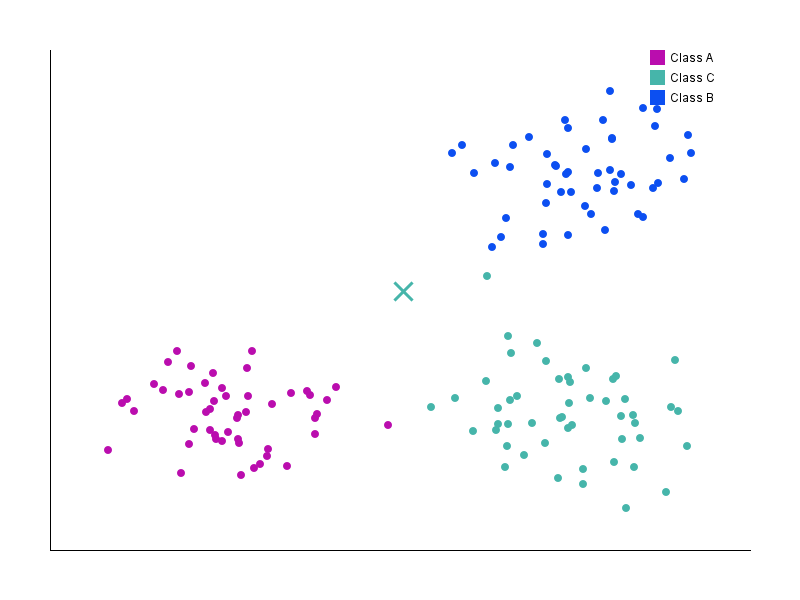
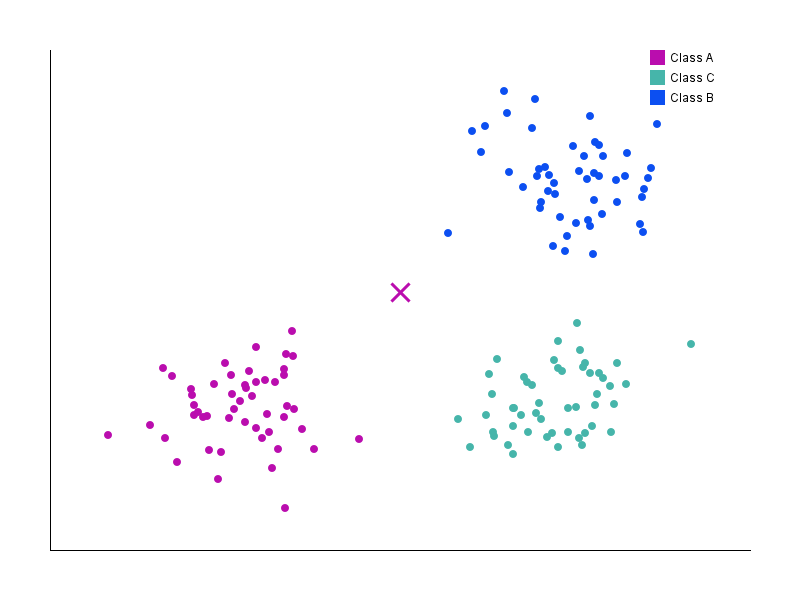
lab6

diff --git a/tasks/term-1/6/app/src/main/java/lab6/knn/Plotter.java b/tasks/term-1/6/app/src/main/java/lab6/knn/Plotter.java
@@ -1,0 +1,123 @@
+package lab6.knn;
+
+import javax.imageio.ImageIO;
+import java.awt.*;
+import java.awt.geom.Ellipse2D;
+import java.awt.image.BufferedImage;
+import java.io.File;
+import java.io.IOException;
+import java.util.HashMap;
+import java.util.List;
+import java.util.Map;
+import java.util.Random;
+
+public class Plotter {
+
+    private static final int WIDTH = 800;
+    private static final int HEIGHT = 600;
+    private static final int PADDING = 50;
+
+    public void plot(List<Point> trainingData, Point classifiedPoint, String filename) {
+        BufferedImage image = new BufferedImage(WIDTH, HEIGHT, BufferedImage.TYPE_INT_RGB);
+        Graphics2D g2d = image.createGraphics();
+
+        g2d.setColor(Color.WHITE);
+        g2d.fillRect(0, 0, WIDTH, HEIGHT);
+        g2d.setRenderingHint(RenderingHints.KEY_ANTIALIASING, RenderingHints.VALUE_ANTIALIAS_ON);
+
+        double minX = Double.MAX_VALUE, maxX = Double.MIN_VALUE;
+        double minY = Double.MAX_VALUE, maxY = Double.MIN_VALUE;
+
+        for (Point p : trainingData) {
+            if (p.getX() < minX) minX = p.getX();
+            if (p.getX() > maxX) maxX = p.getX();
+            if (p.getY() < minY) minY = p.getY();
+            if (p.getY() > maxY) maxY = p.getY();
+        }
+        
+        if (classifiedPoint.getX() < minX) minX = classifiedPoint.getX();
+        if (classifiedPoint.getX() > maxX) maxX = classifiedPoint.getX();
+        if (classifiedPoint.getY() < minY) minY = classifiedPoint.getY();
+        if (classifiedPoint.getY() > maxY) maxY = classifiedPoint.getY();
+
+        double rangeX = maxX - minX;
+        double rangeY = maxY - minY;
+        if (rangeX == 0) rangeX = 1; 
+        if (rangeY == 0) rangeY = 1;
+        
+        minX -= rangeX * 0.1;
+        maxX += rangeX * 0.1;
+        minY -= rangeY * 0.1;
+        maxY += rangeY * 0.1;
+
+        Map<String, Color> classColors = new HashMap<>();
+        Random random = new Random(42);
+
+        g2d.setColor(Color.BLACK);
+        g2d.drawLine(PADDING, HEIGHT - PADDING, WIDTH - PADDING, HEIGHT - PADDING);
+        g2d.drawLine(PADDING, PADDING, PADDING, HEIGHT - PADDING);
+
+        CoordinateMapper mapper = new CoordinateMapper(minX, maxX, minY, maxY, PADDING, WIDTH - PADDING, HEIGHT - PADDING, PADDING);
+
+        for (Point p : trainingData) {
+            String label = p.getLabel();
+            classColors.computeIfAbsent(label, k -> new Color(random.nextInt(256), random.nextInt(256), random.nextInt(256)));
+            
+            g2d.setColor(classColors.get(label));
+            int x = mapper.mapX(p.getX());
+            int y = mapper.mapY(p.getY());
+            g2d.fill(new Ellipse2D.Double(x - 4, y - 4, 8, 8));
+        }
+
+        g2d.setColor(classColors.get(classifiedPoint.getLabel()));
+        int x = mapper.mapX(classifiedPoint.getX());
+        int y = mapper.mapY(classifiedPoint.getY());
+        
+        g2d.setStroke(new BasicStroke(3));
+        g2d.drawLine(x - 8, y - 8, x + 8, y + 8);
+        g2d.drawLine(x + 8, y - 8, x - 8, y + 8);
+        
+        int legendY = PADDING;
+        for(Map.Entry<String, Color> entry : classColors.entrySet()) {
+             g2d.setColor(entry.getValue());
+             g2d.fillRect(WIDTH - PADDING - 100, legendY, 15, 15);
+             g2d.setColor(Color.BLACK);
+             g2d.drawString(entry.getKey(), WIDTH - PADDING - 80, legendY + 12);
+             legendY += 20;
+        }
+
+        g2d.dispose();
+
+        try {
+            ImageIO.write(image, "PNG", new File(filename));
+            System.out.println("Plot saved to " + filename);
+        } catch (IOException e) {
+            e.printStackTrace();
+        }
+    }
+
+    private static class CoordinateMapper {
+        double minX, maxX, minY, maxY;
+        int screenMinX, screenMaxX, screenMinY, screenMaxY;
+
+        public CoordinateMapper(double minX, double maxX, double minY, double maxY, int screenMinX, int screenMaxX, int screenMinY, int screenMaxY) {
+            this.minX = minX;
+            this.maxX = maxX;
+            this.minY = minY;
+            this.maxY = maxY;
+            this.screenMinX = screenMinX;
+            this.screenMaxX = screenMaxX;
+            this.screenMinY = screenMinY;
+            this.screenMaxY = screenMaxY;
+        }
+
+        public int mapX(double x) {
+            return (int) (screenMinX + (x - minX) / (maxX - minX) * (screenMaxX - screenMinX));
+        }
+
+        public int mapY(double y) {
+             return (int) (screenMinY - (y - minY) / (maxY - minY) * (screenMinY - screenMaxY));
+        }
+    }
+}
+

diff --git a/tasks/term-1/6/app/src/main/java/lab6/knn/KNNClassifier.java b/tasks/term-1/6/app/src/main/java/lab6/knn/KNNClassifier.java
@@ -1,0 +1,66 @@
+package lab6.knn;
+
+import java.util.*;
+
+public class KNNClassifier {
+
+    public String classify(List<Point> trainingData, Point p, int k) {
+        if (trainingData == null || trainingData.isEmpty()) {
+            throw new IllegalArgumentException("Training data cannot be null or empty");
+        }
+        if (k <= 0 || k > trainingData.size()) {
+            throw new IllegalArgumentException("K must be positive and less than or equal to training data size");
+        }
+
+        List<Neighbor> neighbors = new ArrayList<>();
+        for (Point trainingPoint : trainingData) {
+            double distance = calculateDistance(p, trainingPoint);
+            neighbors.add(new Neighbor(trainingPoint, distance));
+        }
+
+        neighbors.sort(Comparator.comparingDouble(Neighbor::getDistance));
+
+        List<Neighbor> kNearest = neighbors.subList(0, k);
+
+        Map<String, Integer> voteCount = new HashMap<>();
+        for (Neighbor neighbor : kNearest) {
+            String label = neighbor.getPoint().getLabel();
+            voteCount.put(label, voteCount.getOrDefault(label, 0) + 1);
+        }
+
+        String bestLabel = null;
+        int maxVotes = -1;
+
+        for (Map.Entry<String, Integer> entry : voteCount.entrySet()) {
+            if (entry.getValue() > maxVotes) {
+                maxVotes = entry.getValue();
+                bestLabel = entry.getKey();
+            }
+        }
+
+        return bestLabel;
+    }
+
+    private double calculateDistance(Point p1, Point p2) {
+        return Math.sqrt(Math.pow(p1.getX() - p2.getX(), 2) + Math.pow(p1.getY() - p2.getY(), 2));
+    }
+
+    private static class Neighbor {
+        private final Point point;
+        private final double distance;
+
+        public Neighbor(Point point, double distance) {
+            this.point = point;
+            this.distance = distance;
+        }
+
+        public Point getPoint() {
+            return point;
+        }
+
+        public double getDistance() {
+            return distance;
+        }
+    }
+}
+

diff --git a/tasks/term-1/6/app/src/main/java/lab6/knn/App.java b/tasks/term-1/6/app/src/main/java/lab6/knn/App.java
@@ -1,0 +1,54 @@
+package lab6.knn;
+
+import java.util.ArrayList;
+import java.util.List;
+import java.util.Random;
+
+public class App {
+    public static void main(String[] args) {
+        System.out.println("KNN Classifier Demo");
+
+        List<Point> trainingData = generateData(50);
+        System.out.println("Generated " + trainingData.size() + " training points.");
+
+        // 2. Define a new point
+        Point newPoint = new Point(5.0, 5.0); // Input point
+        System.out.println("New point to classify: " + newPoint);
+
+        KNNClassifier classifier = new KNNClassifier();
+        int k = 5;
+        String predictedLabel = classifier.classify(trainingData, newPoint, k);
+        System.out.println("Predicted class (k=" + k + "): " + predictedLabel);
+
+        newPoint.setLabel(predictedLabel);
+
+        Plotter plotter = new Plotter();
+        plotter.plot(trainingData, newPoint, "knn_result.png");
+    }
+
+    private static List<Point> generateData(int pointsPerClass) {
+        List<Point> data = new ArrayList<>();
+        Random rand = new Random();
+
+        for (int i = 0; i < pointsPerClass; i++) {
+            double x = 2.0 + rand.nextGaussian();
+            double y = 2.0 + rand.nextGaussian();
+            data.add(new Point(x, y, "Class A"));
+        }
+
+        for (int i = 0; i < pointsPerClass; i++) {
+            double x = 8.0 + rand.nextGaussian();
+            double y = 8.0 + rand.nextGaussian();
+            data.add(new Point(x, y, "Class B"));
+        }
+
+        for (int i = 0; i < pointsPerClass; i++) {
+            double x = 8.0 + rand.nextGaussian();
+            double y = 2.0 + rand.nextGaussian();
+            data.add(new Point(x, y, "Class C"));
+        }
+
+        return data;
+    }
+}
+

diff --git a/tasks/term-1/6/app/src/main/java/lab6/knn/Point.java b/tasks/term-1/6/app/src/main/java/lab6/knn/Point.java
@@ -1,0 +1,39 @@
+package lab6.knn;
+
+public class Point {
+    private double x;
+    private double y;
+    private String label;
+
+    public Point(double x, double y, String label) {
+        this.x = x;
+        this.y = y;
+        this.label = label;
+    }
+
+    public Point(double x, double y) {
+        this(x, y, null);
+    }
+
+    public double getX() {
+        return x;
+    }
+
+    public double getY() {
+        return y;
+    }
+
+    public String getLabel() {
+        return label;
+    }
+
+    public void setLabel(String label) {
+        this.label = label;
+    }
+
+    @Override
+    public String toString() {
+        return "Point{" + "x=" + x + ", y=" + y + ", label='" + label + '\'' + '}';
+    }
+}
+

diff --git a/tasks/term-1/6/README.md b/tasks/term-1/6/README.md
@@ -1,0 +1,30 @@
+# Лабораторная работа: KNN Классификатор
+
+## Описание
+Данный проект реализует классификатор K-ближайших соседей (KNN) на Java без использования сторонних библиотек машинного обучения.
+Приложение генерирует синтетический набор данных из 2D точек, принадлежащих 3 разным классам, обучает классификатор и классифицирует новую точку.
+Результат визуализируется и сохраняется в файл `knn_result.png`.
+
+## Требования
+- Java 23 (или совместимая версия JDK)
+- Gradle
+
+## Запуск
+
+Выполните следующую команду в терминале:
+
+```bash
+./gradlew run
+```
+
+Эта команда выполнит следующие действия:
+1. Скомпилирует проект.
+2. Запустит приложение.
+3. Выведет результат классификации в консоль.
+4. Сгенерирует изображение `knn_result.png` в папке `app`.
+
+## Структура проекта
+- `App.java`: Точка входа. Генерирует данные и запускает демонстрацию.
+- `KNNClassifier.java`: Реализация алгоритма KNN (Евклидово расстояние, голосование).
+- `Plotter.java`: Утилиты для визуализации данных и результата классификации.
+- `Point.java`: Класс данных, представляющий 2D точку с меткой класса.
